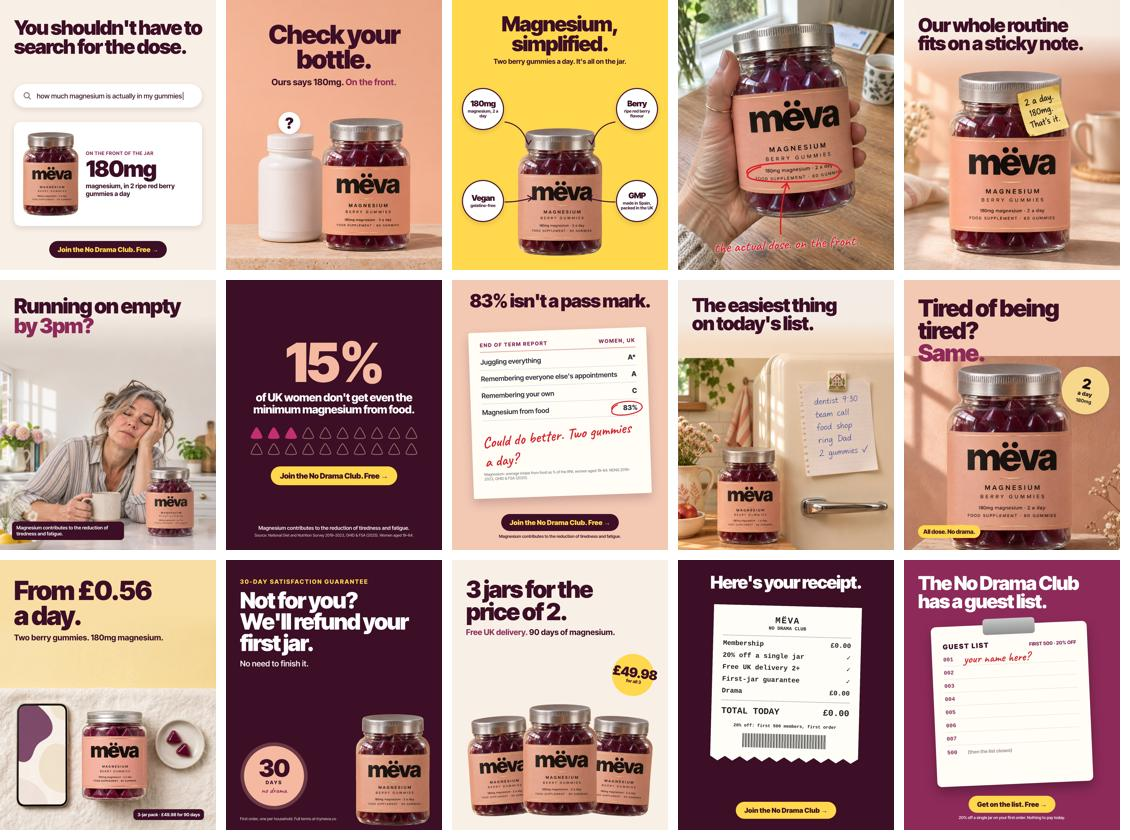
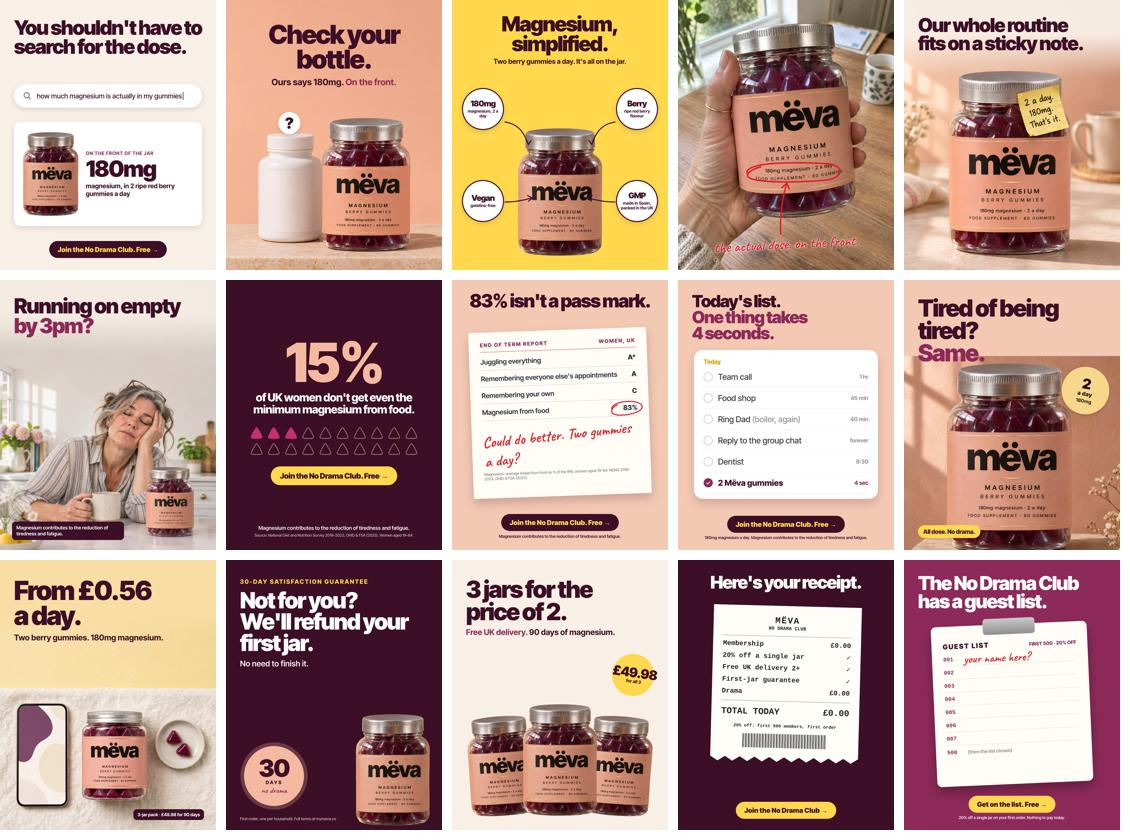
Mëva ads: B4 to-do 4 seconds
Claude-Session: https://claude.ai/code/session_01WXdKv1YfkNwKWVtsSuXmEc

Changed region(s): [[0.5885, 0.3095, 0.8053, 0.681]]

diff --git a/meva/ads/campaign-r1-spec.md b/meva/ads/campaign-r1-spec.md
@@ -24,7 +24,7 @@
 - Images: feed JPGs. Their public URLs are in `2026-11-13/_image-urls.json`.
 - Link: `https://trymeva.co/products/meva-magnesium-gummies`
 - URL parameters (url_tags on every ad): `utm_source=meta&utm_medium=paid_social&utm_campaign={{campaign.name}}&utm_term={{adset.name}}&utm_content={{ad.name}}&placement={{placement}}`
-- Ad names: `A1_search-dose`, `A2_check-bottle`, `A3_simplified`, `A4_circled-dose`, `A5_sticky-note`, `B1_3pm-empty`, `B2_15pct`, `B3_report-card`, `B4_todo-list`, `B5_tired-same`, `C1_056-a-day`, `C2_guarantee`, `C3_3for2`, `C4_receipt`, `C5_guest-list`
+- Ad names: `A1_search-dose`, `A2_check-bottle`, `A3_simplified`, `A4_circled-dose`, `A5_sticky-note`, `B1_3pm-empty`, `B2_15pct`, `B3_report-card`, `B4_todo-4sec`, `B5_tired-same`, `C1_056-a-day`, `C2_guarantee`, `C3_3for2`, `C4_receipt`, `C5_guest-list`
 - Headline: "Join free: 20% off your first jar"
 - Description: "Nothing to pay today"
 - CTA: SIGN_UP
